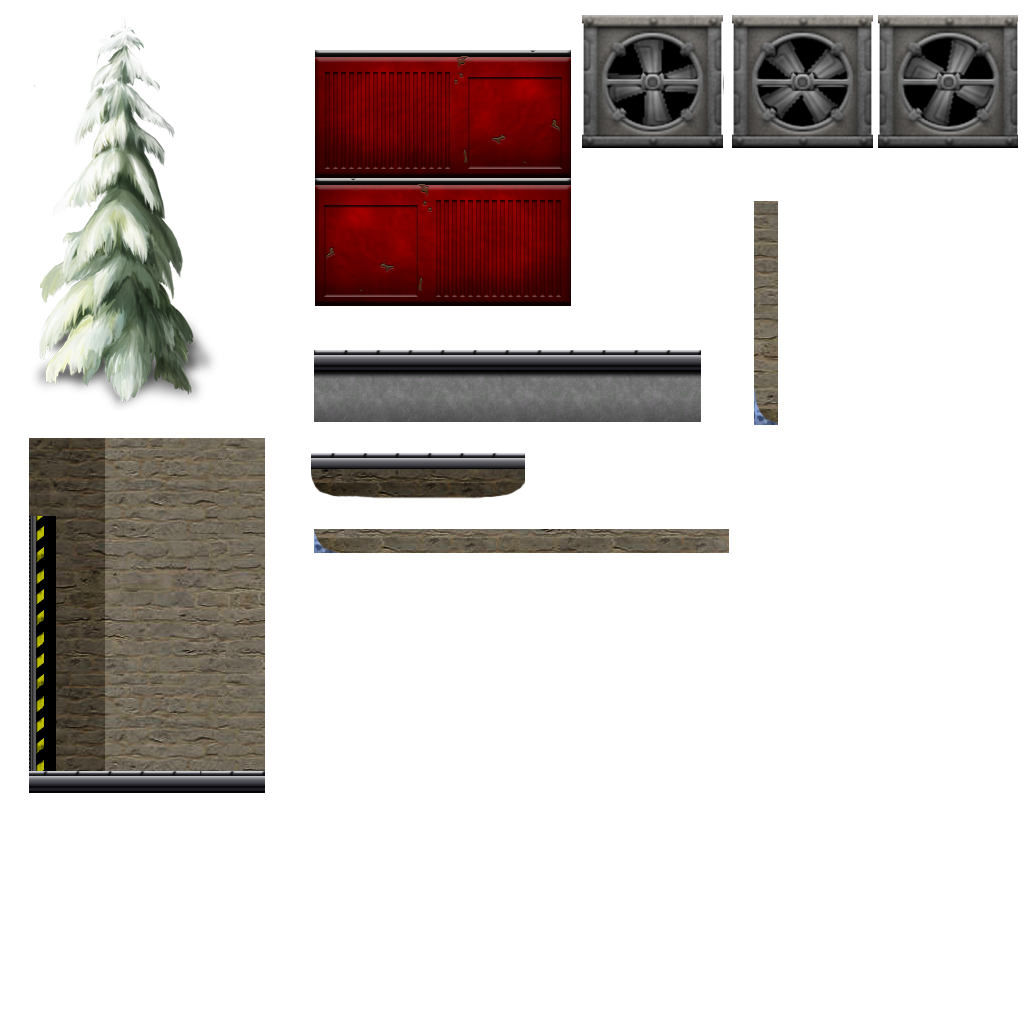
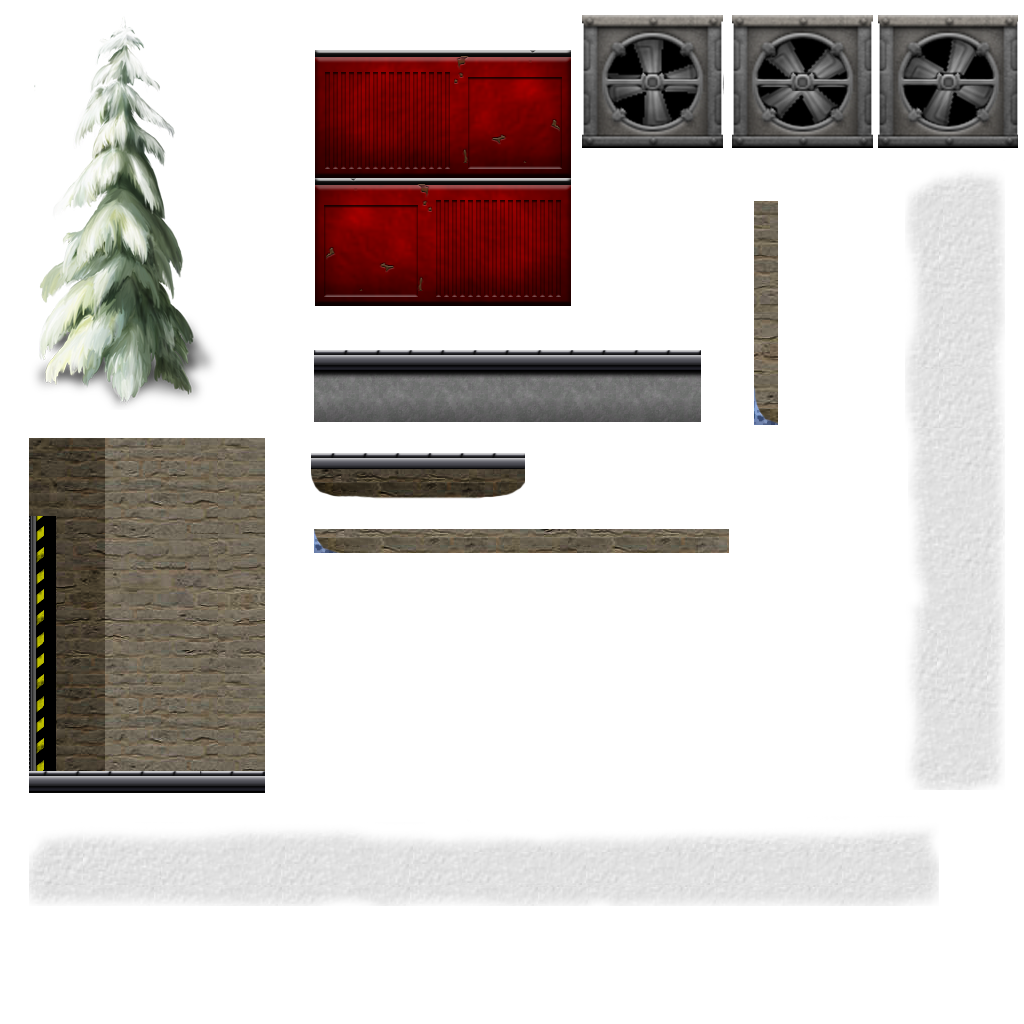
Updated first part of map

Changed region(s): [[0.875, 0.1562, 1.0, 0.7812], [0.0312, 0.8125, 0.9375, 0.9062]]

diff --git a/core/src/com/cypress/Levels/Level1.kt b/core/src/com/cypress/Levels/Level1.kt
@@ -39,18 +39,36 @@ public class Level1(val game : CGGame, val player : Player) : Screen {
         stage = controls.getStage()
         assets.activeMusic = assets.levelsMusic[1]
 
+        val hSnow = TextureRegion(assets.levelsFP[1][0], 28, 834, 911, 73)
+        val vSnow = TextureRegion(assets.levelsFP[1][0], 907, 174, 100, 618)
         val crate = TextureRegion(assets.levelsFP[1][0], 316, 46, 256, 128)
         val roof  = TextureRegion(assets.levelsFP[1][0], 314, 348, 386, 73)
         val roof1 = TextureRegion(assets.levelsFP[1][0], 311, 451, 214, 46)
         val roof2 = TextureRegion(assets.levelsFP[1][0], 313, 529, 416, 24)
         val wall  = TextureRegion(assets.levelsFP[1][0], 754, 201, 25, 225)
 
-        blockList.add(Block(Vector2(626f, 41f), 256f, 128f, crate))
+        blockList.add(Block(Vector2(86f, 950f), 911f, 73f, hSnow))
+        blockList.add(Block(Vector2(86f, 656f), 911f, 73f, hSnow))
+        blockList.add(Block(Vector2(997f, 950f), 125f, 73f, hSnow))
+        blockList.add(Block(Vector2(520f, 390f), 470f, 73f, hSnow))
+        blockList.add(Block(Vector2(1330f, 374f), 880f, 73f, hSnow))
+
+        blockList.add(Block(Vector2(-166f, 68f), 256f, 128f, crate))
+        blockList.add(Block(Vector2(080f, 68f), 256f, 128f, crate))
+        blockList.add(Block(Vector2(-110f, 190f), 256f, 128f, crate))
+
+        blockList.add(Block(Vector2(664f, 448f), 100f, 550f, vSnow))
+        blockList.add(Block(Vector2(897f, 448f), 100f, 550f, vSnow))
+        blockList.add(Block(Vector2(1317f, 892f), 100f, 618f, vSnow))
+        blockList.add(Block(Vector2(1317f, 413f), 100f, 618f, vSnow))
+        blockList.add(Block(Vector2(2129f, 380f), 100f, 370f, vSnow))
+
         blockList.add(Block(Vector2(3230f, 403f), 386f, 73f, roof))
         blockList.add(Block(Vector2(4376f, 929f), 386f, 73f, roof))
         blockList.add(Block(Vector2(4763f, 616f), 386f, 73f, roof))
         blockList.add(Block(Vector2(4559f, 357f), 214f, 46f, roof1))
         blockList.add(Block(Vector2(5860f, 434f), 416f, 24f, roof2))
+        //blockList.add(Block(Vector2(6005f, 357f), 416f, 24f, roof2))
         blockList.add(Block(Vector2(5860f, 434f), 25f, 225f, wall))
 
 
@@ -166,7 +184,7 @@ public class Level1(val game : CGGame, val player : Player) : Screen {
         // drawing first plan objects
         batcher.begin()
         batcher.enableBlending()
-        batcher.draw(spruce, 300f, 0f, 221f, 417f)
+        batcher.draw(spruce, 350f, 980f, 221f, 417f)
         batcher.draw(fence, 6151f, 77f, 236f, 356f)
         batcher.draw(fan.getKeyFrame(runTime), 5885f, 527f, 141f, 132f)
         batcher.end()

diff --git a/core/src/com/cypress/Locale/ru/info.kt b/core/src/com/cypress/Locale/ru/info.kt
@@ -22,11 +22,12 @@ public fun info() : String {
             "\n" +
             "Все остальные ресурсы являются бесплатными и были найдены в свободном\n" +
             "доступе в Интернете. Наша игра использует материалы с сайтов:\n" +
-            "1) http://www.freesound.org/\n" +
-            "2) http://opengameart.org/\n" +
-            "3) http://fontslab.ru/\n" +
-            "4) http://gcup.ru/\n" +
-            "5) https://icons8.com/\n" +
+            "1) http://opengameart.org/\n" +
+            "2) http://freesound.org/\n" +
+            "3) http://textures.com/\n" +
+            "4) https://icons8.com/\n" +
+            "5) http://fontslab.ru/\n" +
+            "6) http://gcup.ru/\n" +
             "\n" +
             "\n" +
             "Сделано с помощью libGDX.\n" +

diff --git a/core/src/com/cypress/Locale/en/info.kt b/core/src/com/cypress/Locale/en/info.kt
@@ -20,11 +20,12 @@ public fun info() : String {
             "\n" +
             "All the other resources are free and was found in a free access in the Internet.\n" +
             "Our game uses materials from websites:\n" +
-            "1) http://www.freesound.org/\n" +
-            "2) http://opengameart.org/\n" +
-            "3) http://fontslab.ru/\n" +
-            "4) http://gcup.ru/\n" +
-            "5) https://icons8.com/\n" +
+            "1) http://opengameart.org/\n" +
+            "2) http://freesound.org/\n" +
+            "3) http://textures.com/\n" +
+            "4) https://icons8.com/\n" +
+            "5) http://fontslab.ru/\n" +
+            "6) http://gcup.ru/\n" +
             "\n" +
             "\n" +
             "Powered by libGDX.\n" +

diff --git a/core/src/com/cypress/Screens/LevelsScreen.kt b/core/src/com/cypress/Screens/LevelsScreen.kt
@@ -43,7 +43,7 @@ public class LevelsScreen(val game : CGGame) : Screen {
                 if ((assets.activeMusic?.isPlaying ?: false) && assets.musicOn) assets.activeMusic?.stop()
 
                 assets.loadLevel1()
-                val player  = Player(Vector2(2f, 80f), 120, 177, 6196f)
+                val player  = Player(Vector2(20f, 950f), 120, 177, 6196f)
                 game.screen = Level1(game, player)
                 dispose()
             }
